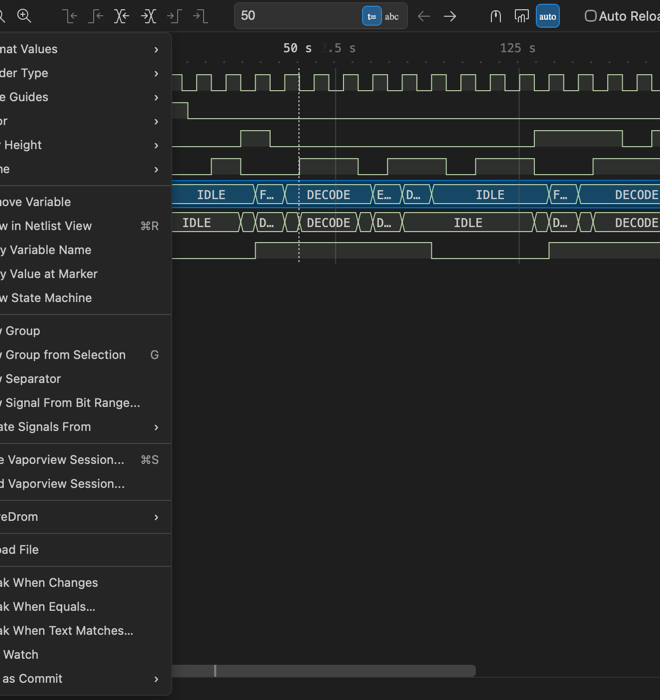
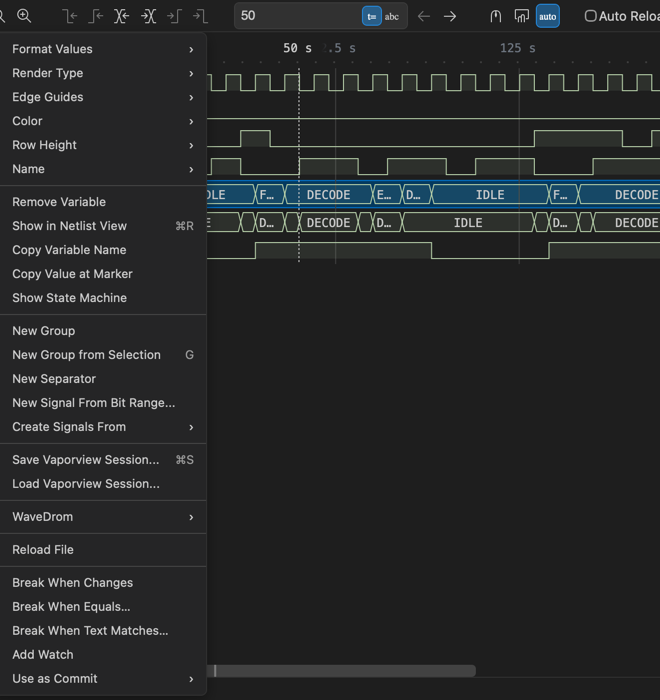
docs(vaporview): review fixes, length cut, regenerated screenshots
Re-crop the context menu so it is no longer clipped, widen the Sequences
shot, document the run.cjs prerequisites (gen_corpus.py, make_expected.sh,
RISCV_BIN), address the review's low findings and cut the README to 250
lines. Note that editor-side features have no screenshots.

diff --git a/scripts/waveform-viewer-checks/docs-shots/main.swift b/scripts/waveform-viewer-checks/docs-shots/main.swift
@@ -73,7 +73,7 @@ final class Harness: NSObject, WKNavigationDelegate, WKScriptMessageHandler {
       let size = (try? FileManager.default.attributesOfItem(atPath: waveURL.path)[.size] as? NSNumber)?.intValue ?? 0
       let fmt = waveURL.pathExtension.lowercased()
       let theme = "{kind:'dark', background:'#1e1e1e', foreground:'#cccccc'}"
-      web.evaluateJavaScript("cmuxWaveform.setTheme(\(theme)); cmuxWaveform.open({url:'\(fileURL.absoluteString)', size:\(size), format:'\(fmt)', path:'/work/sim/\(waveURL.lastPathComponent)', strings:\(strings), settings:{}})")
+      web.evaluateJavaScript("cmuxWaveform.setTheme(\(theme)); cmuxWaveform.open({url:'\(fileURL.absoluteString)', size:\(size), format:'\(fmt)', path:'/work/sim/\(waveURL.lastPathComponent)', strings:\(strings), settings:{defaultNameType:'signalName'}})")
     } else if type == "opened", !started {
       started = true
       Task { @MainActor in await self.run() }

diff --git a/scripts/waveform-viewer-checks/docs-shots/fsm-steps.js b/scripts/waveform-viewer-checks/docs-shots/fsm-steps.js
@@ -24,7 +24,7 @@ const label = Array.from(doc.querySelectorAll('.waveform-label[data-vscode-conte
 });
 if (!label) return 'no row';
 const r = label.getBoundingClientRect();
-label.dispatchEvent(new MouseEvent('contextmenu', { bubbles: true, cancelable: true, button: 2, clientX: r.left + 5, clientY: r.top + 5 }));
+label.dispatchEvent(new MouseEvent('contextmenu', { bubbles: true, cancelable: true, button: 2, clientX: r.left + 40, clientY: r.top + 5 }));
 return Array.from(document.querySelectorAll('.cmux-menu .cmux-menu-item .label')).map((l) => l.textContent).join('|');
 
 //// - wait=300

diff --git a/scripts/waveform-viewer-checks/docs-shots/machine-steps.js b/scripts/waveform-viewer-checks/docs-shots/machine-steps.js
@@ -34,5 +34,6 @@ return null;
 await cmuxWaveform.machine.setTab({ tab: 'memory' });
 return null;
 //// machine-sequences wait=1500
+document.getElementById('netlist').style.width = '440px';
 const r = await cmuxWaveform.machine.setSequence({ query: '{lw} as L ##1 rs1 == L.rd || rs2 == L.rd' });
 return JSON.stringify(r && (r.matches ? r.matches.length : r));

diff --git a/docs/vaporview/README.md b/docs/vaporview/README.md
@@ -5,18 +5,19 @@ the GPL-3.0 waveform viewer by Lloyd Ramseyer. Upstream VaporView is a VS Code e
 VS Code, reads FSDB in place on a remote host, links it to the SystemVerilog editor, and adds a debugger that steps
 through the recorded run.
 
-This document covers cmux's changes only. [docs/sv-editor.md](../sv-editor.md) is the overview of the whole branch.
+Open a dump from cmux's file explorer or a terminal link, locally or in an SSH workspace. This document covers
+cmux's changes only; [docs/sv-editor.md](../sv-editor.md) is the overview of the whole branch.
 
 ![The viewer in cmux: netlist, rows with enum names, the marker and the status strip](images/viewer-overview.png)
 
-*The viewer on the FSM test fixture. `state` and `next_state` show their enum member names.*
+*The viewer on the FSM test fixture (`scripts/waveform-viewer-checks/fsm/`, whose dump uses a 1 s timescale).
+`state` and `next_state` show their enum member names.*
 
 ## Background
 
-VaporView has two halves. The **webview** draws the waveform and talks to its host only through messages. The
-**extension host** runs in VS Code: it parses the dump with [wellen](https://github.com/ekiwi/wellen) (compiled to
-WebAssembly), reads FSDB through a native addon, and supplies the menus, keys, netlist tree, sessions and settings
-that VS Code draws around the webview.
+VaporView has two halves. The **webview** draws the waveform and talks only through messages. The **extension
+host** runs in VS Code: it parses the dump with [wellen](https://github.com/ekiwi/wellen) (in WebAssembly), reads
+FSDB through a native addon, and supplies the menus, keys, netlist, sessions and settings.
 
 cmux keeps the webview, nearly unchanged, and replaces the extension host:
 
@@ -25,8 +26,7 @@ cmux keeps the webview, nearly unchanged, and replaces the extension host:
 | The webview container and `acquireVsCodeApi()` | A `WKWebView` panel and `vscode-api-shim.js` |
 | File reading in a Node worker | `wellen-worker.js`, a Web Worker reading the file through range requests |
 | FSDB through a native addon on the Mac | [The FSDB helper](#fsdb-the-viewer-and-the-helper), run on the remote host over SSH |
-| Menus, keys, settings, status bar, netlist tree | `cmux-commands.js`, `cmux-ui.js`, `cmux-netlist.js` |
-| Sessions, undo, dirty state | `cmux-commands.js` and the Swift session code |
+| Menus, keys, settings, netlist, sessions, undo | `cmux-commands.js`, `cmux-ui.js`, `cmux-netlist.js`, Swift session code |
 
 ## Architecture
 
@@ -42,17 +42,17 @@ cmux keeps the webview, nearly unchanged, and replaces the extension host:
 - **Swift → page:** `callAsyncJavaScript` on `window.cmuxWaveform` (`open`, `link.*`, `debugger.*`, `machine.*`, ...).
 - **Page → Swift:** `webkit.messageHandlers.cmuxWaveform.postMessage({type, ...})`.
 - **Page → VaporView frame:** the messages VS Code would send (`add-variable`, `setMarker`, `setDisplayFormat`).
-- **Dump bytes** come through the private `cmux-waveform:` scheme, which serves only the bundle and the open file.
-  A Content-Security-Policy allows only bundled scripts.
+- **Dump bytes** come through the private `cmux-waveform:` scheme, which serves only the bundle and the open file;
+  a Content-Security-Policy allows only bundled scripts.
 
 ## Features
 
-Menu names below are the English strings in the code. Every item of View > Waveform Debugger is also in the command
-palette.
+Menu names are the English strings in the code. Editor-side features (inline values, the listing gutter) have no
+screenshots, because those need the full app rather than the off-screen viewer harness.
 
 ### VaporView parity
 
-All of VaporView's VS Code features work in the panel, with the same command IDs:
+VaporView's VS Code features work in the panel, with the same command IDs:
 - its context menus (rows, ruler, netlist) and their `when` rules;
 - its keys: ⌘R show in netlist, ⌘F search netlist, F2 rename, ⌘0 zoom to fit, ⌥= / ⌥- row scale, G group, 1 to 8
   color, ⌘Z / ⇧⌘Z undo and redo;
@@ -81,17 +81,14 @@ and compiles it there against the host's own Verdi, so no Synopsys code is shipp
 
 The viewer and the helper then work as one:
 - The viewer never holds a big signal whole. It asks the helper for **windows**: one signal over one time range, at
-  the zoom level on screen, exact or summarized per pixel bucket. It prefetches the neighbours, so panning rarely
-  waits.
+  the zoom on screen, exact or summarized per pixel bucket. It prefetches neighbours, so panning rarely waits.
 - The helper keeps four worker processes with the dump open, and answers windows, values at the marker, next edge
   and value search from their in-memory stores.
 - Signals with at most 350,000 changes are loaded whole and then behave like local ones.
 - If the windowed helper can't start, cmux falls back to whole signals and says so in the status strip.
 
-VCD, FST and GHW are parsed in the page by wellen, from a local file or one in an SSH workspace.
-
-The helper's design, protocol, timeouts and decisions are in
-**[Resources/vaporview/fsdb-helper-v2/README.md](../../Resources/vaporview/fsdb-helper-v2/README.md)**.
+VCD, FST and GHW are parsed in the page by wellen, local or remote. The helper's design, protocol, timeouts and
+decisions are in **[Resources/vaporview/fsdb-helper-v2/README.md](../../Resources/vaporview/fsdb-helper-v2/README.md)**.
 
 *Files:* `Sources/Panels/WaveformFSDBHelper.swift`, `Resources/vaporview/fsdb-helper-v2/`, `fsdb-helper/` (fallback),
 `window_cache.ts` in the patch.
@@ -100,7 +97,7 @@ The helper's design, protocol, timeouts and decisions are in
 
 - In the SystemVerilog editor, ⌃W (Add Signal to Waveform) adds the signal under the cursor, placed in the design by
   slang-server. A signal that wasn't dumped is shown through the net it connects to, if there is one.
-- In the viewer, ⌥⇧D (Show Waveform Signal in Source) or a double-click jumps to the declaration. ⌃- and ⌃⇧- go back
+- In the viewer, ⌥⇧D (Show Waveform Signal in Source) or a double-click jumps to the declaration; ⌃- / ⌃⇧- go back
   and forward.
 - The editor shows **inline values** at the marker. Hover an enum to see its member name.
 - When the dump names the design differently, View > Waveform Path Mapping... holds the prefix rules.
@@ -111,12 +108,13 @@ The helper's design, protocol, timeouts and decisions are in
 ### Enum names and the state machine view
 
 A row whose signal has an enum type shows member names by default. VCD has no types, so cmux asks slang-server.
-Format Values > Enum Names restores them after you pick another format.
+Format Values > Enum Names restores them after you pick another format. (slang-server is the SystemVerilog
+language server cmux's editor uses; it needs a file of the design open in the editor.)
 
-Right-click a state register > **Show State Machine** to open a pane with its states and transitions. It marks the
-state at the marker and counts entries into each state and uses of each transition. Click a transition to jump to its
-next occurrence (⇧-click: previous). cmux builds the graph with Verdi's FSM analysis on the dump's host if present,
-else Yosys, else from the dump alone. A note says which.
+Right-click a state register > **Show State Machine** for a pane with its states and transitions, the state at the
+marker, and counts of entries and transitions taken. Click a transition to jump to its next occurrence (⇧-click:
+previous). The graph comes from Verdi (Synopsys's debug suite, used only where installed, and only with the VCS
+`-kdb` database next to the dump), else Yosys, else the dump alone. A note under the graph names the engine.
 
 ![The state machine pane: five states, DECODE current, counts on states and transitions](images/fsm-view.png)
 
@@ -141,15 +139,17 @@ else Yosys, else from the dump alone. A note says which.
 
 The dump is a recorded run, so cmux steps through it like gdb, in both directions.
 
-- **Step:** F10 one clock cycle forward, ⇧F10 back. Play at N cycles/s from View > Waveform Debugger. cmux picks the
-  clock; Use Selected Signal as Clock overrides it.
+- **Step:** F10 one clock cycle forward, ⇧F10 back, or play at N cycles/s. cmux picks the clock; Use Selected
+  Signal as Clock overrides it.
 - **Locals:** a group of the signals in the editor's current instance, following the cursor.
 - **Editor highlights:** each step tints the signals that changed and their driver lines. Rows the editor
   highlights light up in the viewer too.
 - **Breakpoints:** F5 continues to the next one, ⇧F5 to the previous one (F5 with none enabled plays). Kinds: Break
   When Changes and Break When Equals... on a row; F9 on an editor line (stops when a signal it assigns changes);
   Break When Text Matches... (a regex over the row's shown text, such as `^csrw`); and the instruction kinds below.
-  Any of them can take a condition.
+  Any of them can take a condition. While playing, F5 pauses.
+- Stop Debugging ends stepping and removes Locals. Every item of View > Waveform Debugger is in the command
+  palette, and the keys can be rebound in cmux's keyboard settings.
 - **Evaluate and watches:** SystemVerilog expressions, with IEEE 1800 widths and 4-state results, in the Evaluate
   field or as watches that update every step.
 
@@ -165,48 +165,53 @@ Machine section, the cycle strip and Evaluate.*
 For a CPU that dumps its retired instructions in [RVFI](https://github.com/YosysHQ/riscv-formal/blob/main/docs/rvfi.md)
 form (or close to it; Use as Commit maps others), cmux replays every commit into registers and memory.
 
-- **Machine section:** Registers, Memory, CSRs and History at the marker, like gdb's `info registers` and `x/`.
+- **Machine section:** Registers, Memory, History, and CSRs when the dump has them, at the marker, like gdb's
+  `info registers` and `x/`.
   Evaluate takes `$a0`, `$pc`, `$mem32(addr)` and gdb commands. A register's menu has Who Last Wrote This and
   Break When Written. F10 steps by instruction while the section has focus.
 - **Program image:** Load ELF for Machine State... fills memory the program never wrote and checks loads.
-- **Sequences:** search the instruction stream with SVA-like syntax, one commit per tick. For example
-  `{lw} as L ##1 rs1 == L.rd || rs2 == L.rd` finds load-use pairs.
-- **Listings:** open the program's objdump output in the editor. F9 in it sets a PC breakpoint, and the current
-  instruction is marked while stepping. After a rebuild, breakpoints follow their code, and any that moved are
-  reported.
+- **Sequences:** search the instruction stream with SVA-like syntax, one commit per tick:
+  `{lw} as L ##1 rs1 == L.rd || rs2 == L.rd` finds load-use pairs. *(Coming: Break When Sequence Matches....)*
+- **Listings:** open the program's objdump output in the editor. F9 there sets a PC breakpoint, and stepping marks
+  the current instruction. After a rebuild, breakpoints follow their code and moves are reported.
 - **More instruction breakpoints** (Add Instruction Breakpoint...): Break at Address..., Break When Next
   Instruction Matches..., Break When Written....
-- *(coming)* Break When Sequence Matches... stops at a sequence match.
 
 <img src="images/machine-sequences.png" width="330" alt="The Sequences tab: a load-use query and its matches">
 
 *Files:* `cmux-machine-core.js`, `cmux-machine.js`, `cmux-sequence.js`, `cmux-debugger-commits.js`;
 `Sources/Panels/WaveformMachineState.swift`, `WaveformDebuggerAsmBreakpoints.swift`; the package's `AsmListing/`.
 
-### Trace-X *(coming)*
-
-Follows a value, or an X, back through its drivers to where it came from. It uses Verdi on the remote host when
-present, otherwise slang and cmux's own evaluator.
+*Coming:* **Trace-X** follows a value, or an X, back through its drivers to where it came from, with Verdi on the
+remote host when present, otherwise slang and cmux's own evaluator.
 
 ## Maintaining the patch
 
-All edits to VaporView's sources are one file, [`source/cmux-vaporview.patch`](../../Resources/vaporview/source/cmux-vaporview.patch),
-against upstream `59107c6` (tag `1.6.1-beta`). It is the GPL corresponding source of the bundled `webview.js`, and
-its `CHANGES.md` explains each change. Every edit to an upstream file carries a `// cmux:` comment; search for it.
+All edits to VaporView's sources are one file,
+[`source/cmux-vaporview.patch`](../../Resources/vaporview/source/cmux-vaporview.patch), against upstream `59107c6`
+(tag `1.6.1-beta`). It is the GPL corresponding source of the bundled `webview.js`; its `CHANGES.md` explains each
+change, and every edit to an upstream file carries a `// cmux:` comment.
 
 Rebuild byte for byte from a clean checkout of `59107c6`:
 
 ```sh
 git apply cmux-vaporview.patch && npm ci && npm run compile-wasm && node esbuild.js --production
+# dist/webview.js is Resources/vaporview/webview.js
 ```
 
-`filehandler.wasm` has its own reproducible build: `scripts/waveform-viewer-checks/wellen/build-wasm.sh`.
+Don't copy the `filehandler.wasm` that `compile-wasm` builds; it lacks the wellen fix. The bundled one comes from
+`scripts/waveform-viewer-checks/wellen/build-wasm.sh`. The patch's `test/riscv/` tests need GNU objdump output,
+which the patch leaves out; generate it with a RISC-V binutils:
+
+```sh
+cd test/riscv && python3 gen_corpus.py && RISCV_BIN=<riscv binutils bin dir> ./make_expected.sh && node run.cjs
+```
 
 To move to a new upstream: apply the patch with `git apply -3` on the new tag, resolve conflicts by their `cmux:`
-comments, rebuild, run VaporView's `node test/riscv/run.cjs` and the suites below, then regenerate the patch
+comments, rebuild, run the VaporView tests and the suites below, then regenerate the patch
 (`git diff <new tag> <branch> -- . ':(exclude)test/riscv/*.gz'`) and update the commit in
-[`Resources/vaporview/README.md`](../../Resources/vaporview/README.md), which lists every bundled file and how it was
-made.
+[`Resources/vaporview/README.md`](../../Resources/vaporview/README.md), which records how the bundled files were
+built.
 
 ## Testing
 
@@ -215,33 +220,31 @@ off-screen `WKWebView`, or runs the page's scripts in JavaScriptCore. No window 
 
 | Area | Suites |
 | --- | --- |
-| Parity, security | `parity`, `xss` |
+| Parity, security, editor link, enums, FSM, RISC-V | `parity`, `xss`, `link`, `enum`, `enum-link`, `fsm`, `riscv` |
 | FSDB | `windowed` (mock helper, real relay); `fsdb`, `windowed-fsdb`, `windowed-launcher` need a host with Verdi |
-| Editor link, enums, FSM, RISC-V | `link`, `enum`, `enum-link`, `fsm`, `riscv` |
 | Debugger | `debugger`, `debugger-editor`, `breakpoints`, `line-breakpoints`, `expr`, `text`, `text-breakpoints` |
 | CPU traces | `machine-core`, `machine`, `machine-mutants`, `commit-breakpoints`, `commit-page`, `asm-listing` |
 
-Swift package tests cover the FSM model, listings, line breakpoints and path mapping. The screenshots here come
-from `scripts/waveform-viewer-checks/docs-shots/make-shots.sh`, on open fixtures only.
+Swift package tests cover the FSM model, listings, line breakpoints and path mapping. `docs-shots/make-shots.sh`
+regenerates the screenshots here from open fixtures.
 
 ## Licenses and credits
 
 - **VaporView** (GPL-3.0), Lloyd Ramseyer and contributors: the webview, the patch, and the files adapted from its
   extension host.
 - **wellen** (BSD-3-Clause), Kevin Laeufer, with cmux's fix to its split-bit merge.
-- **slang** (MIT): the expression semantics, reimplemented. **riscv-formal** (ISC): the RVFI names.
-  **Compiler Explorer** (BSD-2-Clause): the objdump listing parser, ported.
-- **Verdi's FSDB reader is never bundled.** The helper links it on the host. See
-  [`fsdb-helper-v2/NOTICE`](../../Resources/vaporview/fsdb-helper-v2/NOTICE).
-
-Full list: [`THIRD_PARTY_LICENSES.md`](../../THIRD_PARTY_LICENSES.md).
+- **slang** (MIT): the expression semantics, reimplemented. **riscv-formal** (ISC): the RVFI names. **Compiler
+  Explorer** (BSD-2-Clause): the objdump listing parser, ported.
+- The machine fixtures simulate the unmodified NERV and PicoRV32 (ISC) and Ibex (Apache-2.0) cores.
+- **Verdi's FSDB reader is never bundled**; the helper links it on the host
+  ([`NOTICE`](../../Resources/vaporview/fsdb-helper-v2/NOTICE)). Full list:
+  [`THIRD_PARTY_LICENSES.md`](../../THIRD_PARTY_LICENSES.md).
 
 ## Upstream bugs found
 
 Fixed here, to be reported upstream:
-- **VaporView:** waveform text reaches `innerHTML` unescaped (signal names, tooltips, values), so a crafted dump
-  could inject markup.
+- **VaporView:** dump text (names, tooltips, values) reaches `innerHTML` unescaped, so a crafted dump can inject markup.
 - **VaporView:** Undo with an expanded group throws, because a row is disposed twice.
 - **VaporView:** numeric value search matches substrings of the bits: hex `5` also finds `0x15`.
-- **wellen 0.25.7:** merging a VCD's bit-blasted vector (`valid [0]`, `valid [1]`) loses or corrupts values when the
-  bits start at different times or one is never written.
+- **wellen 0.25.7:** merging a VCD's bit-blasted vector (`valid [0]`, `valid [1]`) corrupts values when the bits
+  start at different times or one is never written.
